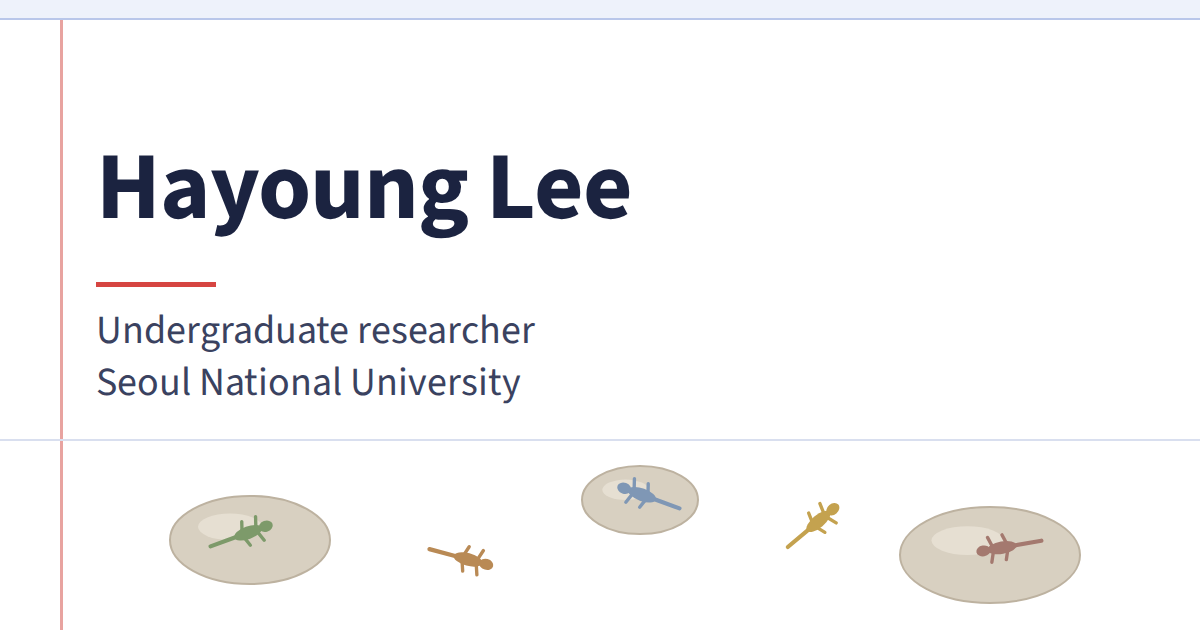
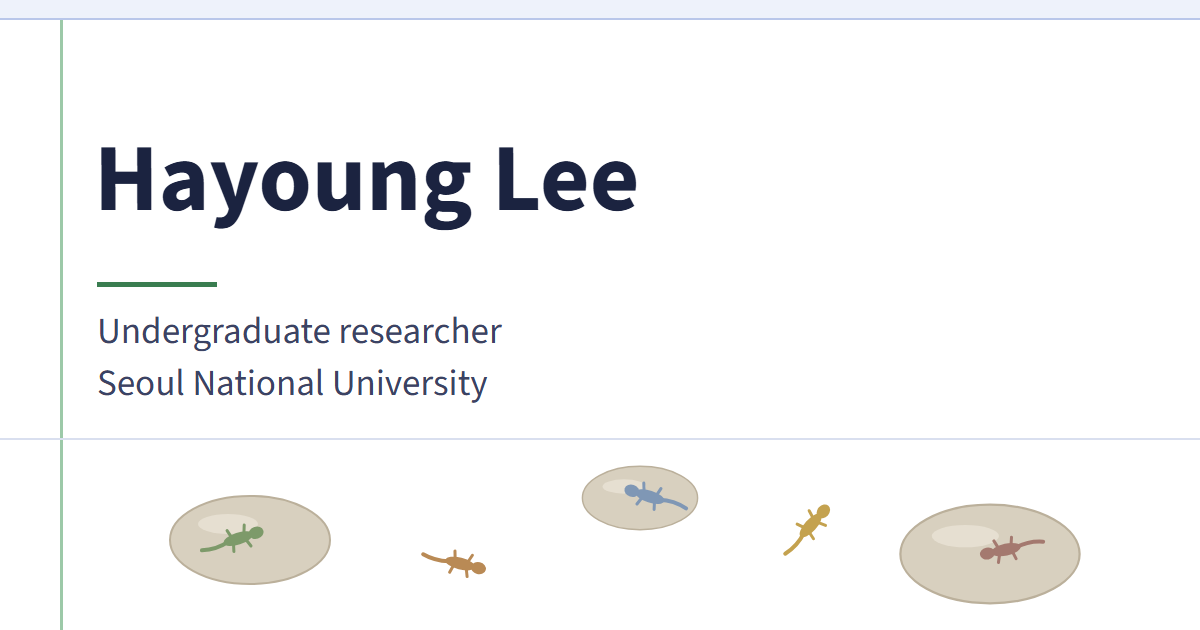
Back to Source Sans, handwritten numbers, green preview image, bigger News

diff --git a/index.html b/index.html
@@ -11,7 +11,7 @@
 <meta property="og:title" content="Hayoung Lee">
 <meta property="og:description" content="Hayoung Lee, undergraduate researcher at Seoul National University.">
 <meta property="og:url" content="https://siwawa.github.io/">
-<meta property="og:image" content="https://siwawa.github.io/assets/og-image.png?v=1">
+<meta property="og:image" content="https://siwawa.github.io/assets/og-image.png?v=2">
 <meta property="og:image:width" content="1200">
 <meta property="og:image:height" content="630">
 <meta property="og:image:alt" content="Hayoung Lee, undergraduate researcher at Seoul National University">
@@ -24,7 +24,7 @@
 </script>
 <link rel="preconnect" href="https://fonts.googleapis.com">
 <link rel="preconnect" href="https://fonts.gstatic.com" crossorigin>
-<link rel="stylesheet" href="https://fonts.googleapis.com/css2?family=Newsreader:ital,opsz,wght@0,6..72,400..700;1,6..72,400..700&family=IBM+Plex+Mono&display=swap">
+<link rel="stylesheet" href="https://fonts.googleapis.com/css2?family=Source+Sans+3:ital,wght@0,400;0,700;1,400&family=Caveat:wght@500&display=swap">
 <link rel="stylesheet" href="style.css">
 <!-- 다크 모드: 저장한 선택, 없으면 컴퓨터 설정을 그리기 전에 바로 적용해요 -->
 <script>var t; try { t = localStorage.getItem('theme'); } catch (e) {} document.documentElement.dataset.theme = t || (matchMedia('(prefers-color-scheme: dark)').matches ? 'dark' : 'light');</script>
@@ -41,7 +41,7 @@
 <!-- 사진은 방문자가 처음 움직일 때 불러와요. 경로는 site.js에서 바꾸세요 -->
 <figure class="portrait"><img id="photo" alt="Hayoung Lee looking up at a large skeleton in a natural history museum" width="1500" height="500"></figure>
 <p>Hi! I’m a final-year undergraduate in the School of Biological Sciences at Seoul National University, working with Dr. Yeonwoo Park in <a href="https://narrykim.org/en/">Prof. V. Narry Kim’s lab</a>. I want to understand <span class="mark"><strong>ecology and evolution</strong> as a <strong>mechanistic process</strong></span>, using large-scale experiments, experimental evolution, and possibly deep learning.</p>
-<h3 id="news">News</h3>
+<h2 id="news">News</h2>
 <ul class="news">
   <li><span class="date">Sep 2026</span><span>Selected as an alternate candidate for the <strong>Fulbright US-Korea Presidential STEM Initiative</strong>.</span></li>
   <li><span class="date">Mar 2026</span><span>Received the <strong>LX Science Fellowship</strong>.</span></li>

diff --git a/research.html b/research.html
@@ -11,14 +11,14 @@
 <meta property="og:title" content="Research Interests | Hayoung Lee">
 <meta property="og:description" content="Research interests of Hayoung Lee, undergraduate researcher at Seoul National University.">
 <meta property="og:url" content="https://siwawa.github.io/research.html">
-<meta property="og:image" content="https://siwawa.github.io/assets/og-image.png?v=1">
+<meta property="og:image" content="https://siwawa.github.io/assets/og-image.png?v=2">
 <meta property="og:image:width" content="1200">
 <meta property="og:image:height" content="630">
 <meta property="og:image:alt" content="Hayoung Lee, undergraduate researcher at Seoul National University">
 <meta name="twitter:card" content="summary_large_image">
 <link rel="preconnect" href="https://fonts.googleapis.com">
 <link rel="preconnect" href="https://fonts.gstatic.com" crossorigin>
-<link rel="stylesheet" href="https://fonts.googleapis.com/css2?family=Newsreader:ital,opsz,wght@0,6..72,400..700;1,6..72,400..700&family=IBM+Plex+Mono&display=swap">
+<link rel="stylesheet" href="https://fonts.googleapis.com/css2?family=Source+Sans+3:ital,wght@0,400;0,700;1,400&family=Caveat:wght@500&display=swap">
 <link rel="stylesheet" href="style.css">
 <!-- 다크 모드: 저장한 선택, 없으면 컴퓨터 설정을 그리기 전에 바로 적용해요 -->
 <script>var t; try { t = localStorage.getItem('theme'); } catch (e) {} document.documentElement.dataset.theme = t || (matchMedia('(prefers-color-scheme: dark)').matches ? 'dark' : 'light');</script>

diff --git a/prior.html b/prior.html
@@ -11,14 +11,14 @@
 <meta property="og:title" content="Prior Research | Hayoung Lee">
 <meta property="og:description" content="Prior research, publications, and talks by Hayoung Lee.">
 <meta property="og:url" content="https://siwawa.github.io/prior.html">
-<meta property="og:image" content="https://siwawa.github.io/assets/og-image.png?v=1">
+<meta property="og:image" content="https://siwawa.github.io/assets/og-image.png?v=2">
 <meta property="og:image:width" content="1200">
 <meta property="og:image:height" content="630">
 <meta property="og:image:alt" content="Hayoung Lee, undergraduate researcher at Seoul National University">
 <meta name="twitter:card" content="summary_large_image">
 <link rel="preconnect" href="https://fonts.googleapis.com">
 <link rel="preconnect" href="https://fonts.gstatic.com" crossorigin>
-<link rel="stylesheet" href="https://fonts.googleapis.com/css2?family=Newsreader:ital,opsz,wght@0,6..72,400..700;1,6..72,400..700&family=IBM+Plex+Mono&display=swap">
+<link rel="stylesheet" href="https://fonts.googleapis.com/css2?family=Source+Sans+3:ital,wght@0,400;0,700;1,400&family=Caveat:wght@500&display=swap">
 <link rel="stylesheet" href="style.css">
 <!-- 다크 모드: 저장한 선택, 없으면 컴퓨터 설정을 그리기 전에 바로 적용해요 -->
 <script>var t; try { t = localStorage.getItem('theme'); } catch (e) {} document.documentElement.dataset.theme = t || (matchMedia('(prefers-color-scheme: dark)').matches ? 'dark' : 'light');</script>

diff --git a/more.html b/more.html
@@ -11,14 +11,14 @@
 <meta property="og:title" content="More about me | Hayoung Lee">
 <meta property="og:description" content="More about Hayoung Lee, including how to get in touch.">
 <meta property="og:url" content="https://siwawa.github.io/more.html">
-<meta property="og:image" content="https://siwawa.github.io/assets/og-image.png?v=1">
+<meta property="og:image" content="https://siwawa.github.io/assets/og-image.png?v=2">
 <meta property="og:image:width" content="1200">
 <meta property="og:image:height" content="630">
 <meta property="og:image:alt" content="Hayoung Lee, undergraduate researcher at Seoul National University">
 <meta name="twitter:card" content="summary_large_image">
 <link rel="preconnect" href="https://fonts.googleapis.com">
 <link rel="preconnect" href="https://fonts.gstatic.com" crossorigin>
-<link rel="stylesheet" href="https://fonts.googleapis.com/css2?family=Newsreader:ital,opsz,wght@0,6..72,400..700;1,6..72,400..700&family=IBM+Plex+Mono&display=swap">
+<link rel="stylesheet" href="https://fonts.googleapis.com/css2?family=Source+Sans+3:ital,wght@0,400;0,700;1,400&family=Caveat:wght@500&display=swap">
 <link rel="stylesheet" href="style.css">
 <!-- 다크 모드: 저장한 선택, 없으면 컴퓨터 설정을 그리기 전에 바로 적용해요 -->
 <script>var t; try { t = localStorage.getItem('theme'); } catch (e) {} document.documentElement.dataset.theme = t || (matchMedia('(prefers-color-scheme: dark)').matches ? 'dark' : 'light');</script>

diff --git a/style.css b/style.css
@@ -36,9 +36,8 @@ body {
   background-color: var(--bg);
   background-image: var(--grain);
   color: var(--fg);
-  /* 본문 글꼴은 Newsreader(학술지 같은 세리프). 글자가 작게 보여서 조금 키워요 */
-  font-family: "Newsreader", Georgia, "Times New Roman", serif;
-  font-size: 1.059rem;
+  font-family: "Source Sans 3", "Helvetica Neue", Helvetica, Arial, sans-serif;
+  font-size: 1rem;
   line-height: 1.55;
 }
 a { color: var(--link); }
@@ -129,7 +128,7 @@ p, li { text-wrap: pretty; }
 #research-body { counter-reset: theme; }
 #research-body h3 { margin-top: 2.588rem; counter-increment: theme; }
 /* 실험 노트처럼 주제마다 빨간 번호(No. 01)와 펜으로 그린 작은 그림이 붙어요 */
-#research-body h3::before { content: "No. " counter(theme, decimal-leading-zero); margin-right: 0.588rem; color: var(--accent); font-family: "IBM Plex Mono", Consolas, monospace; font-size: 0.765rem; font-weight: normal; letter-spacing: 0.02em; vertical-align: 0.118rem; }
+#research-body h3::before { content: "No. " counter(theme, decimal-leading-zero); margin-right: 0.588rem; color: var(--accent); font-family: "Caveat", "Segoe Print", cursive; font-size: 1.118rem; font-weight: 500; vertical-align: 0.059rem; }
 .theme-icon { width: 1.765rem; height: 1.765rem; margin-right: 0.412rem; vertical-align: -0.471rem; }
 #research-body h2 + h3 { margin-top: 0.471rem; }
 #research-body h3:nth-of-type(even) { text-align: right; }
